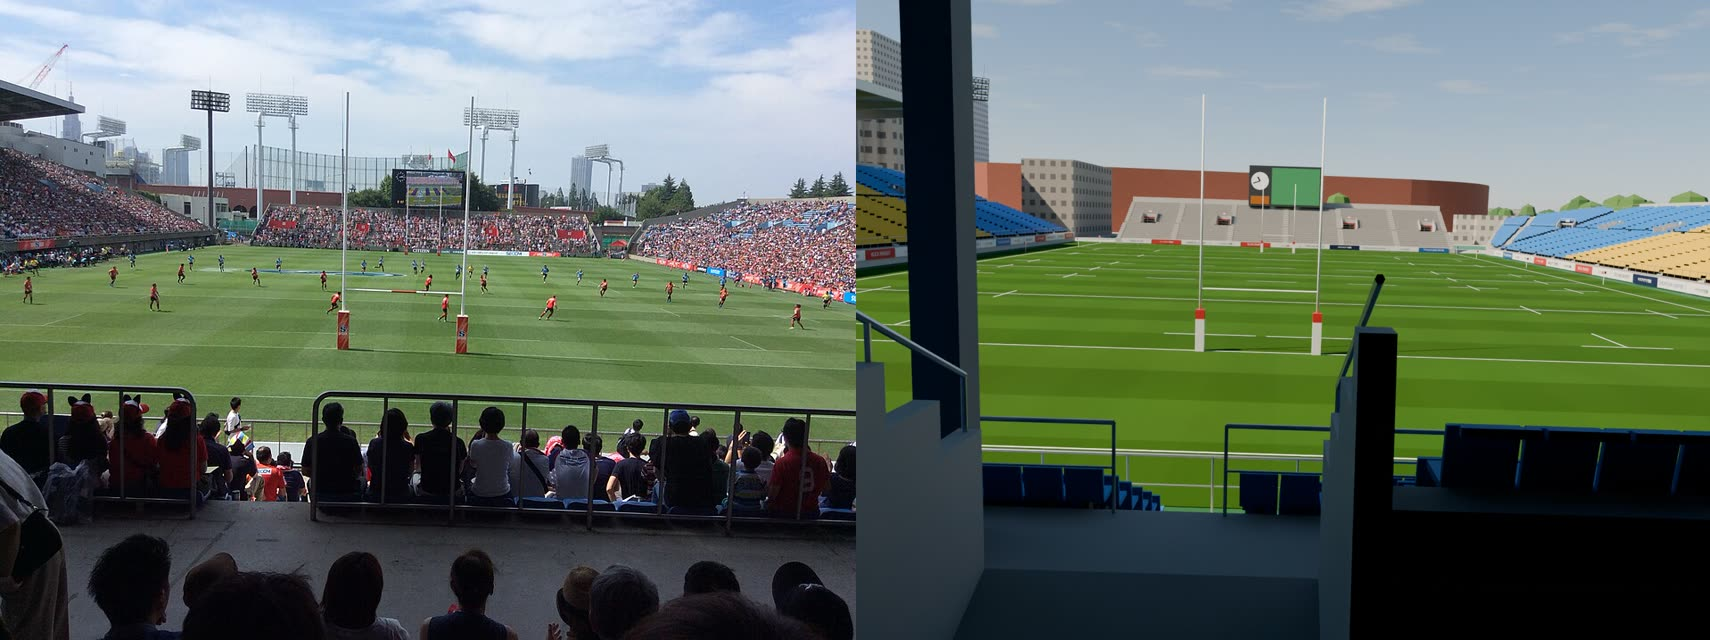
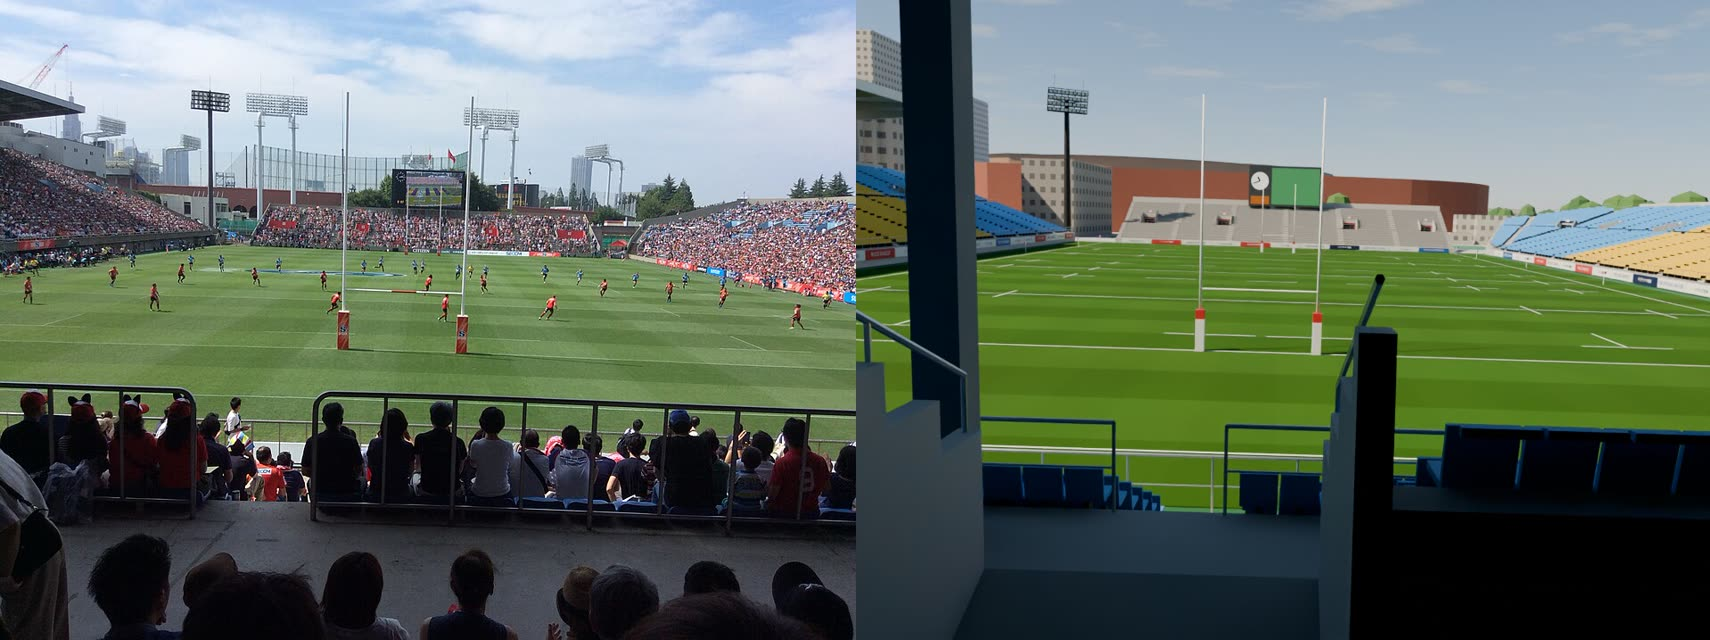
北西の照明塔を写真 2 枚の向きの交点へ、南西も同じ角の位置へ(4 基とも約 31 m)

Changed region(s): [[0.5579, 0.125, 0.7439, 0.3438], [0.8678, 0.3125, 1.0, 0.4062], [0.6819, 0.3125, 0.7129, 0.3438]]

diff --git a/PROGRESS.md b/PROGRESS.md
@@ -12,7 +12,7 @@
 - 段階 0〜3: 資料([docs/reference.md](docs/reference.md))、グラウンド、四方のスタンドの断面。高さは写真 5 枚で確かめた(ポスト 12 m、バック最上部 11.2 m、メイン最上段 12.2 m)。
 - 段階 4: `roof.py`。メインは平らな板を太い柱 2 列と前へ細くなる梁で支える形(写真 038)。南は前の柱の列。
 - 段階 5: `seats.py`(1 脚ずつ、西と東の中央が黄色、ほかは青、北は座席なし)、`details.py`(縦通路、出入口の箱、手すり)、上の部屋の窓と貴賓席。
-- 段階 6: `screen.py`(北の中央の後ろ、時計と映像)、`lights.py`(照明塔 4 基、東の 2 基は 31 m、西は 33 m)。
+- 段階 6: `screen.py`(北の中央の後ろ、時計と映像)、`lights.py`(照明塔 4 基、4 基とも約 31 m、写真 3 枚の向きから位置を測った)。
 - 段階 7: `exterior.py`。OSM の建物 1,536 棟、道 575 本、運動場・公園、木 1,928 本、神宮球場と国立競技場の大きな形。
   元データは `refs/osm/`、模型の座標に直したものが `config/surroundings.json`(`tools/osm_surroundings.py`)。
 - 比較: `docs/compare/` の 5 枚を描き直した。03(バックスタンド正面)は照明塔の位置と高さまで重なる。
@@ -38,6 +38,7 @@
 | 00:27 | メインの裏(西)の外壁: 1 階の暗い吹き抜けと 7 m おきの角柱、6〜7.4 m のベージュの帯、小窓、中央の大階段(`stands._west_facade`、写真 031・048・005) | 良くなった。平らな白い壁だった外観に写真の構成が出た(寸法は推定) |
 | 00:30 | 正面入場口の門(角柱 2 本に赤茶の帯、梁に施設名)を OSM の入口の通路が歩道から入る所(Y = 131)に置いた。大階段を OSM の steps の位置(Y 86〜94)へ移し、外壁の前に 9 m の踊り場 | 良くなった。写真 031 と同じ構図で門・階段・外壁の高さの関係が合う(門の寸法は写真の比率からの推定) |
 | 00:32 | 南西の照明塔: 比較 02 の解いたカメラで灯具の向きと高さを出し、空中写真の影らしい帯との交点へ((−82, 62) 33 m → (−93.4, 52) 32.3 m) | 良くなった。比較 02 の重ね絵で写真の塔と 1 本に重なる |
+| 00:36 | 北西の照明塔: 比較 04・01 の解いたカメラからの 2 本の向きの交点へ((80, 66) 33 m → (75.1, 43.9) 30.3 m)。南西も同じ角の位置へ((−81.5, 44) 31 m)。00:32 の南西の位置は取り消した | 良くなった。比較 01・02・04 の重ね絵で 3 基とも写真の塔と 1 本に重なる。4 基とも約 31 m で揃った |
 
 自分で決めたこと:
 - 角のブロックの向きは 60 度、折れ目は |X| = 64.8(推定)。62.8 だと比較 02 の撮影位置で段が高すぎたので外へ 2 m ずらした。
@@ -49,6 +50,7 @@
 - 南スタンドの断面(前段の深さ、蹴上げ)は、写真 04 の手前の通路から計算しても模型と 2 m 以内で決め手がないので変えなかった。
 - 座席の色は近くの写真(02、Rugby2)に合わせた。遠くの写真 03 では観客で席が覆われて暗く見えるので、色合わせには使わなかった。
 - 正面入場口の門の施設名は再現した(plan.md の決まり: 施設名は再現してよい)。開口 10 m は梁の文字 13 字の並びと写真の比率から。
+- 南西の照明塔は写真が 1 枚しかないので、向きの線の上で北西と同じ「メインの端とゴール裏のスタンドのあいだの角」に置いた。空中写真の影らしい帯(X −80〜−92、Y 50〜54)はビルの影の可能性もあり採らなかった。
 - 看板は前の壁の面だけにし、白地を多めにした(写真 03・05)。社名はラグビーの言葉と外苑・青山の言葉から作った架空のもの。
 
 ## わかっている問題

diff --git a/docs/reference.md b/docs/reference.md
@@ -95,7 +95,7 @@
 | 座席の色の値 | 青 sRGB (70,150,212)、黄 (214,178,40) | 推定 | 写真の日なたの青は (119,175,219)〜(160,199,220)。初めは描くと明るくなると考えて (40,122,196) にしたが、比較 02 の手前で暗すぎたので 2026-11-18 に明るくした |
 | 出入口の箱の色 | 青い区画は薄い水色、黄色い区画は薄い黄色、北は赤 | 写真 | 写真 038・100・Asian Rugby-3 |
 | 映像装置 | 幅 16 m、下端 8.4 m、上端 17.2 m、北スタンド中央の後ろ(X 86〜87.6)。左 3 割が時計 | 実測 ±1 | 写真 050 で奥のポストを物差しに。平面は空中写真の白い板と影 |
-| 照明塔 | 北西 (80, 66) 33 m、南西 (−93.4, 52) 32.3 m、北東 (45.8, −82) 31 m、南東 (−48, −82) 31 m | 推定 ±3〜5 | 東の 2 基は写真 100(比較 03)の向きと灯具の高さから(Y = −82 は仮定)。2026-11-17 夜に比較 03 のカメラを芝のラインから解き直したら、前の値(25 m、南東 X −58)はずれたカメラに合わせたものだった。北西は写真 050 の方向と空中写真の影。南西は比較 02 の解いたカメラで灯具の向きと高さ、空中写真の影らしい帯との交点(2026-11-18、±4 m) |
+| 照明塔 | 北西 (75.1, 43.9) 30.3 m、南西 (−81.5, 44) 31 m、北東 (45.8, −82) 31 m、南東 (−48, −82) 31 m | 推定 ±3〜5 | 東の 2 基は写真 100(比較 03)の向きと灯具の高さから(Y = −82 は仮定)。2026-11-17 夜に比較 03 のカメラを芝のラインから解き直したら、前の値(25 m、南東 X −58)はずれたカメラに合わせたものだった。北西は比較 04・01 の解いたカメラからの 2 本の向きの交点(±1.5 m)。南西は比較 02 の向きの線の上で北西と同じ角の位置(±5 m)。4 基とも上端 30〜31 m(2026-11-18) |
 
 ## 5.6 周りの建物と道(OpenStreetMap から)
 
